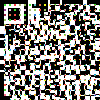
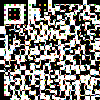
Updated canada.pymy1.png .

diff --git a/canada.py b/canada.py
@@ -30,10 +30,10 @@ img.save('my.png')
 moverPieza(outp,18,1,0,0)
 moverPieza(outp,0,16,0,15)
 moverPieza(outp,1,4,0,3)
-moverPieza(outp,1,9,0,11)
+moverPieza(outp,1,9,0,12)
 moverPieza(outp,2,8,0,5)
 moverPieza(outp,3,0,0,14)
-moverPieza(outp,4,7,0,12)
+moverPieza(outp,4,7,0,11)
 moverPieza(outp,5,3,0,7)
 moverPieza(outp,7,17,0,13)
 moverPieza(outp,8,8,0,1)
